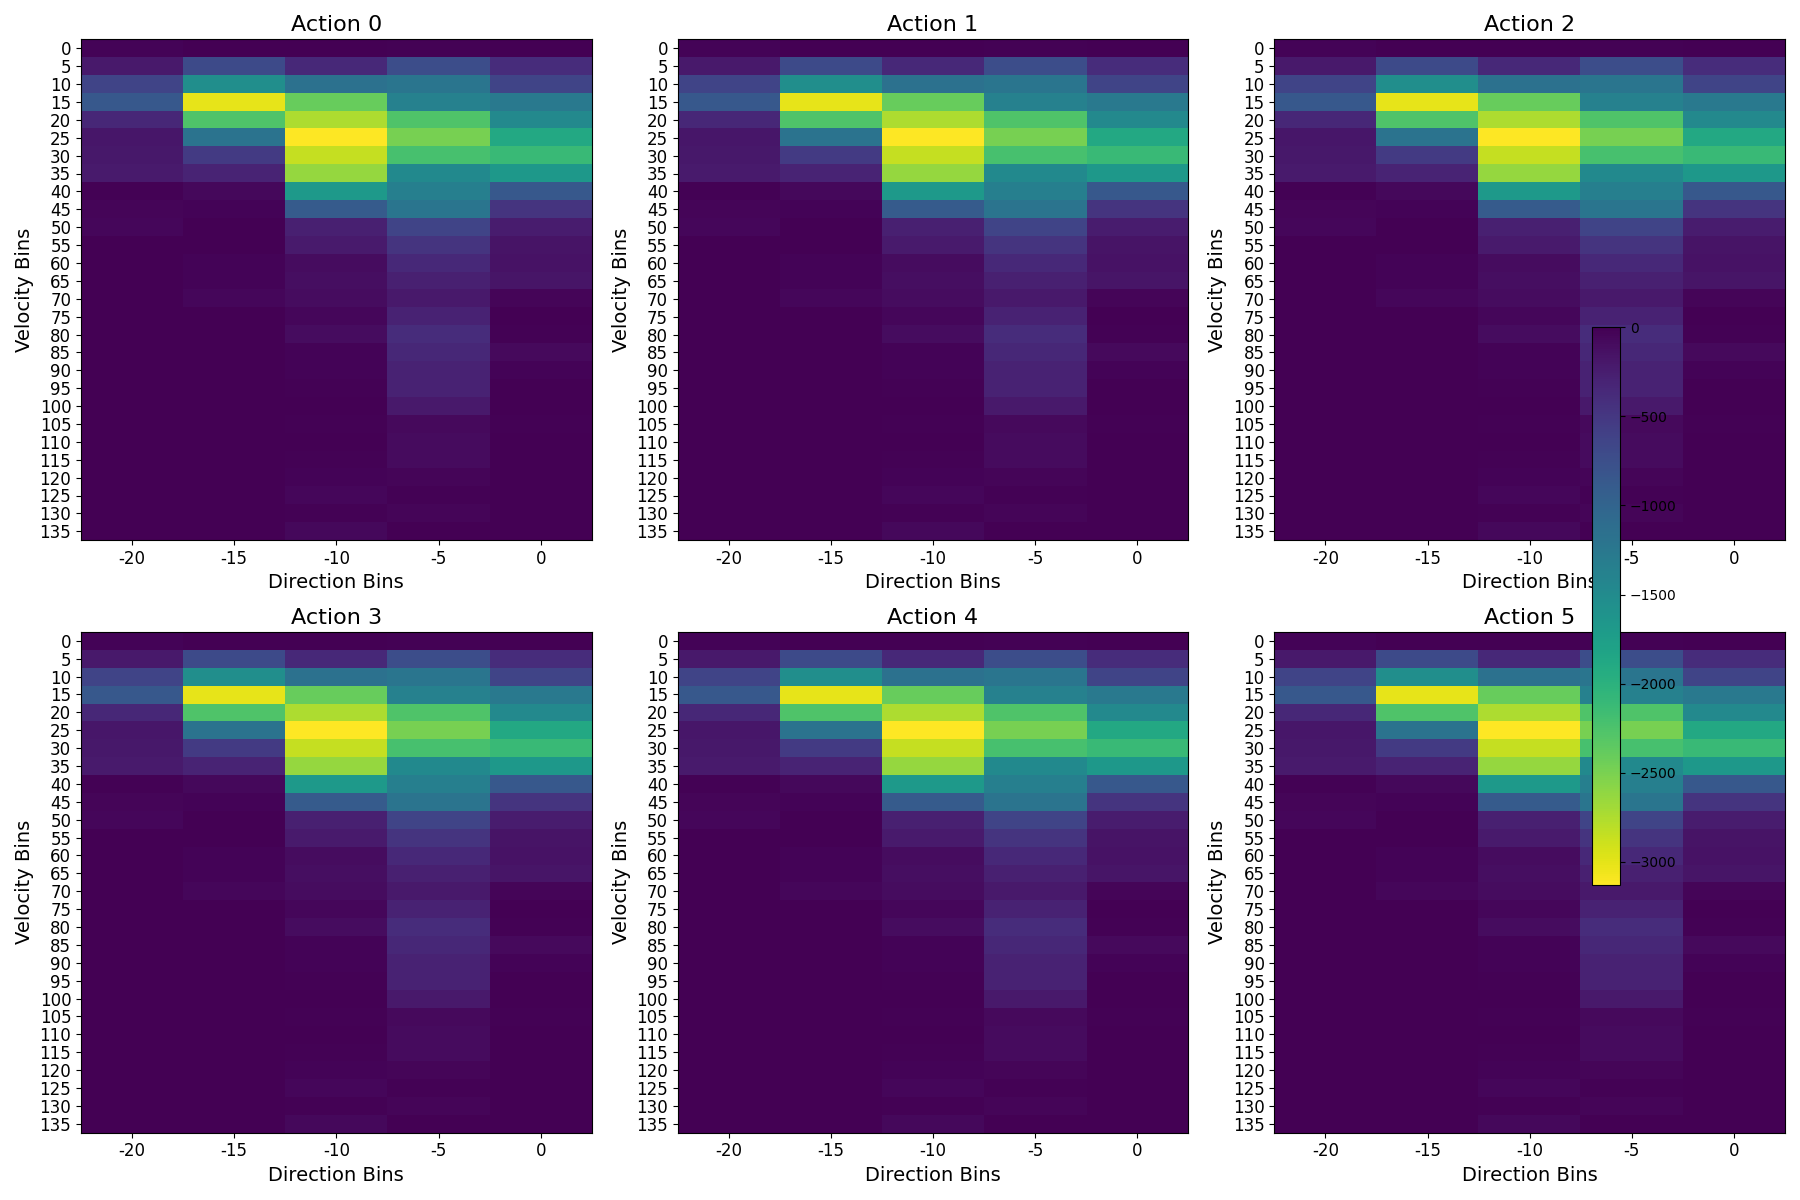
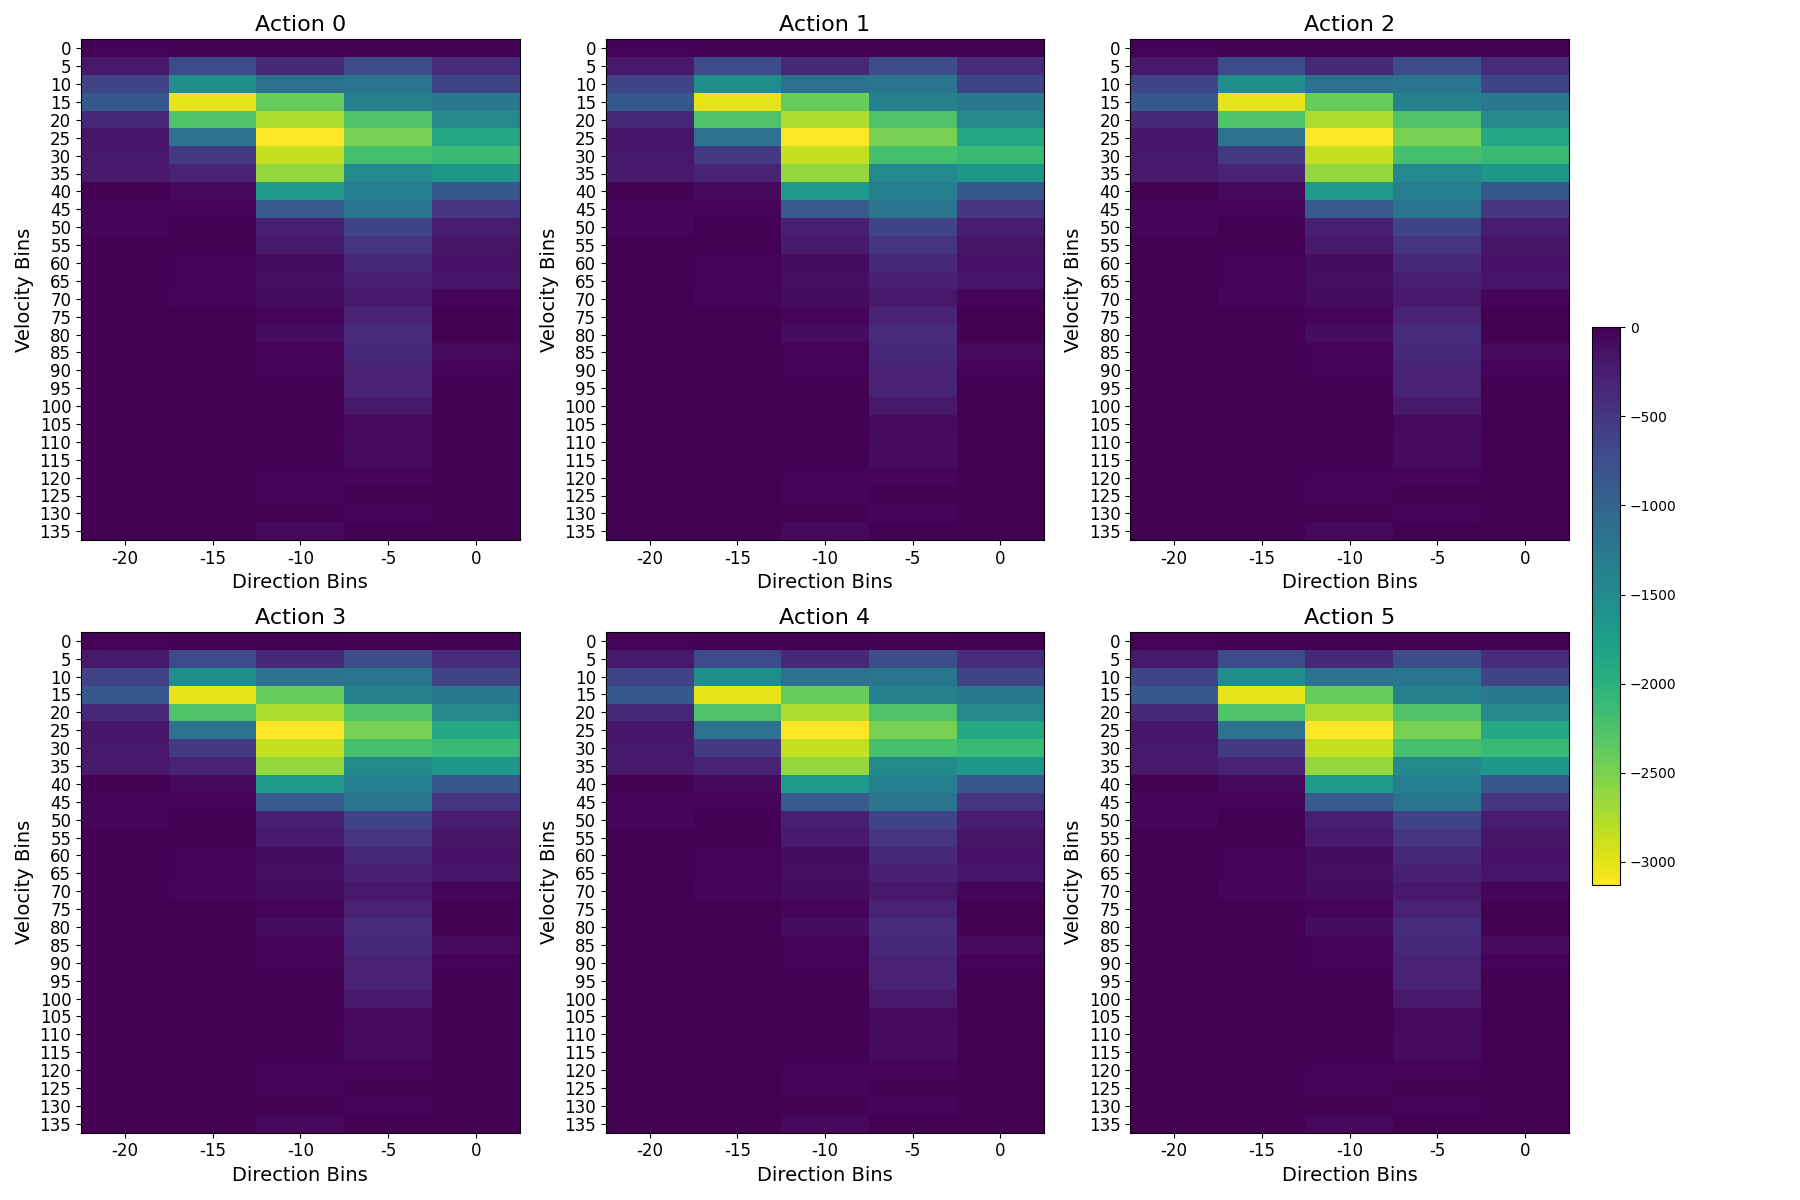
commit

diff --git a/plot_evaluate.py b/plot_evaluate.py
@@ -109,9 +109,10 @@ def plot_action_reward_subplots(rewards, n_direction_bins, n_vel_bins, n_actions
         ax.set_ylabel("Velocity Bins", fontsize=14)
 
     # Add a color bar to the last subplot, shared across all subplots
+    # change the ax position
+    # cb_ax = fig.add_axes([0.92, 0.15, 0.02, 0.7])
     fig.colorbar(img, ax=axes, orientation='vertical', fraction=0.02, pad=0.04)
-    plt.subplots_adjust(right=0.8)
-    plt.tight_layout()
+    plt.tight_layout(rect=[0, 0, 0.88, 1])
     plt.savefig("action_reward_subplots.png")
 
 def plot_velocity_action_reward_heatmap(rewards, n_direction_bins, n_vel_bins):
